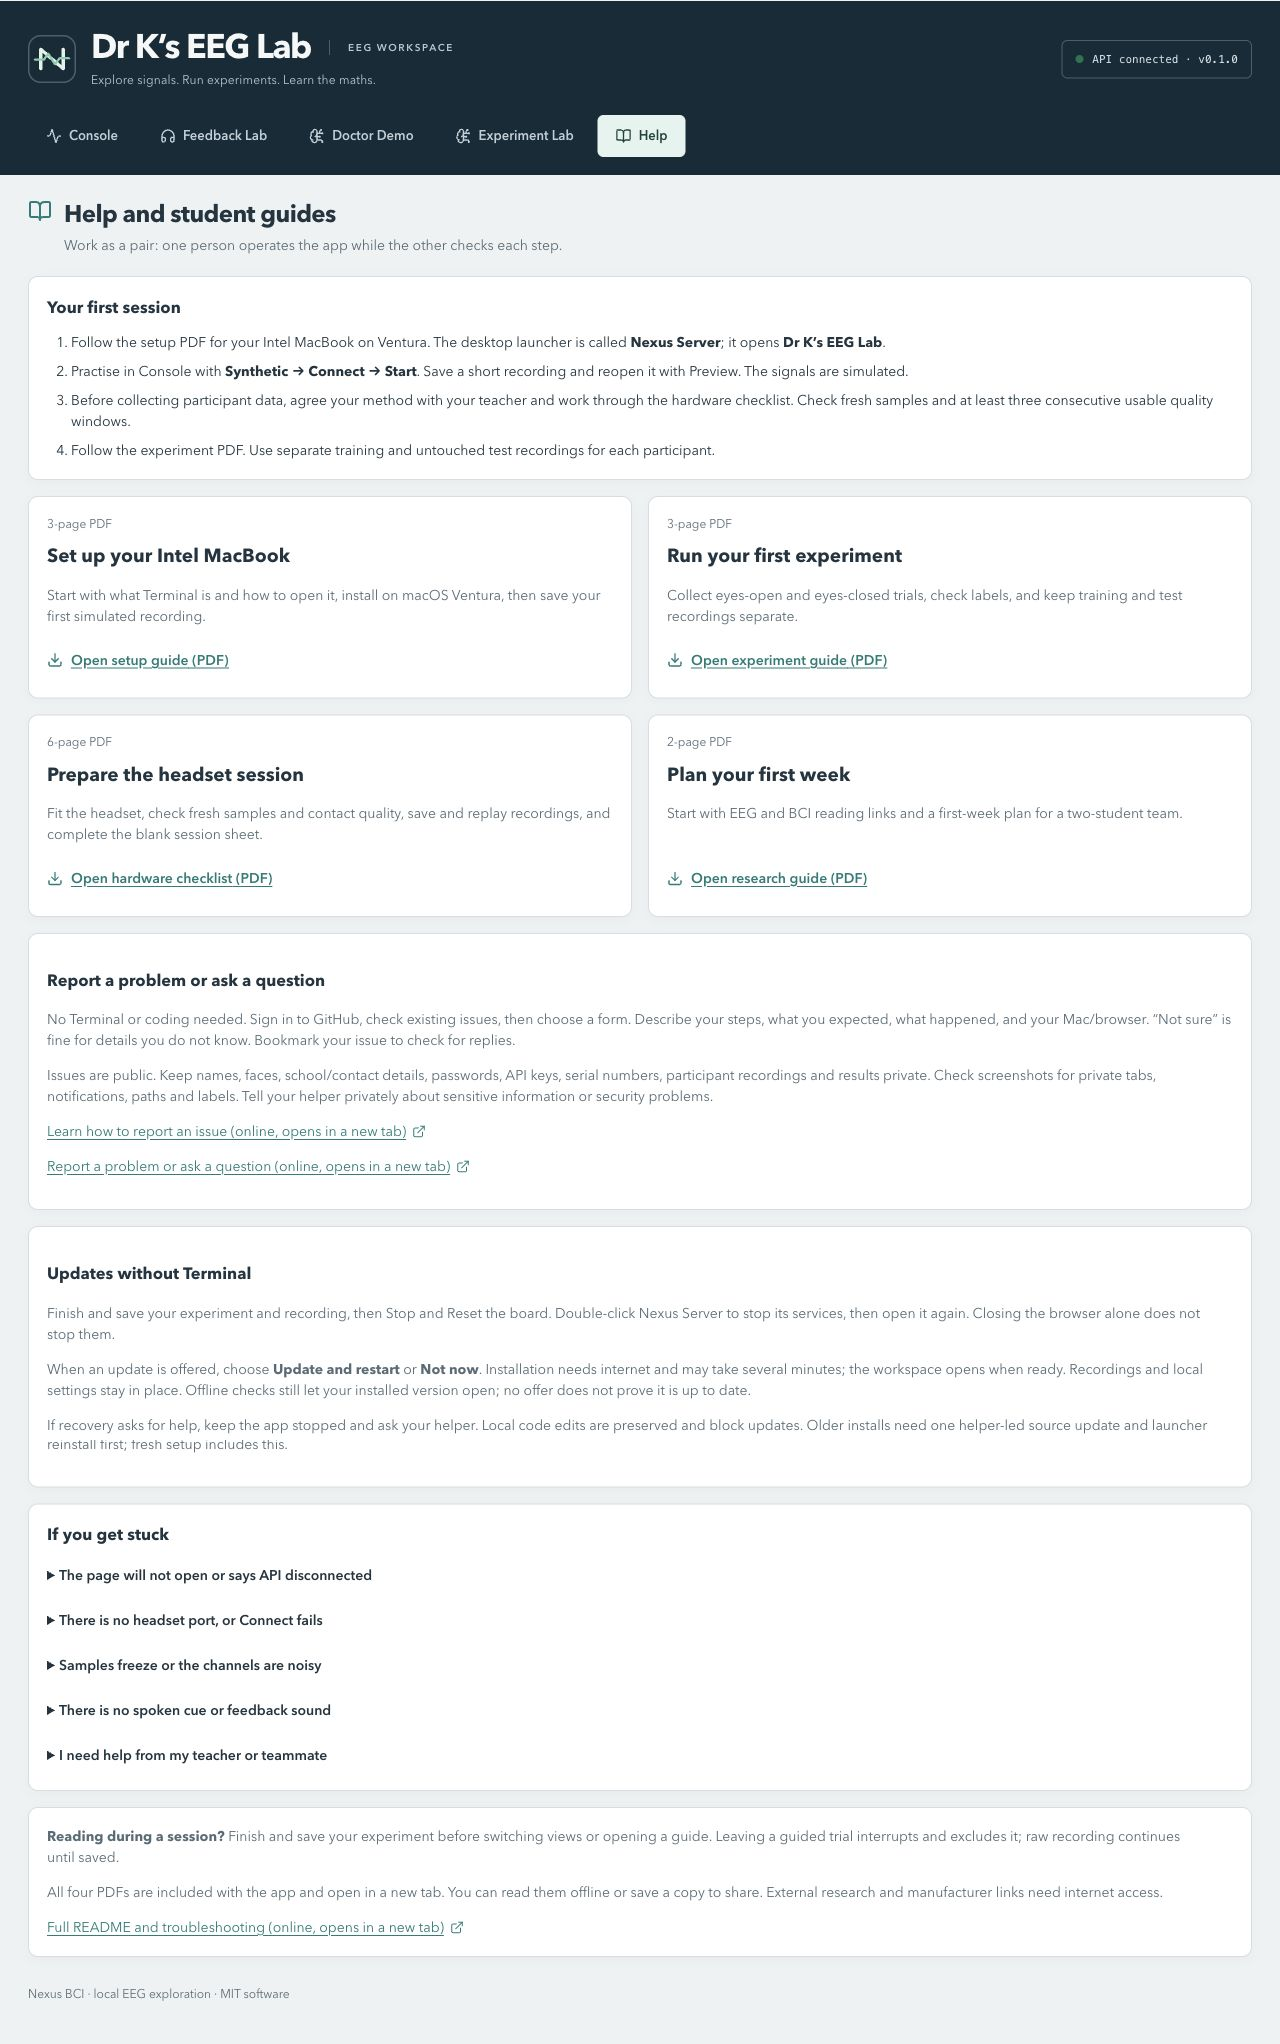
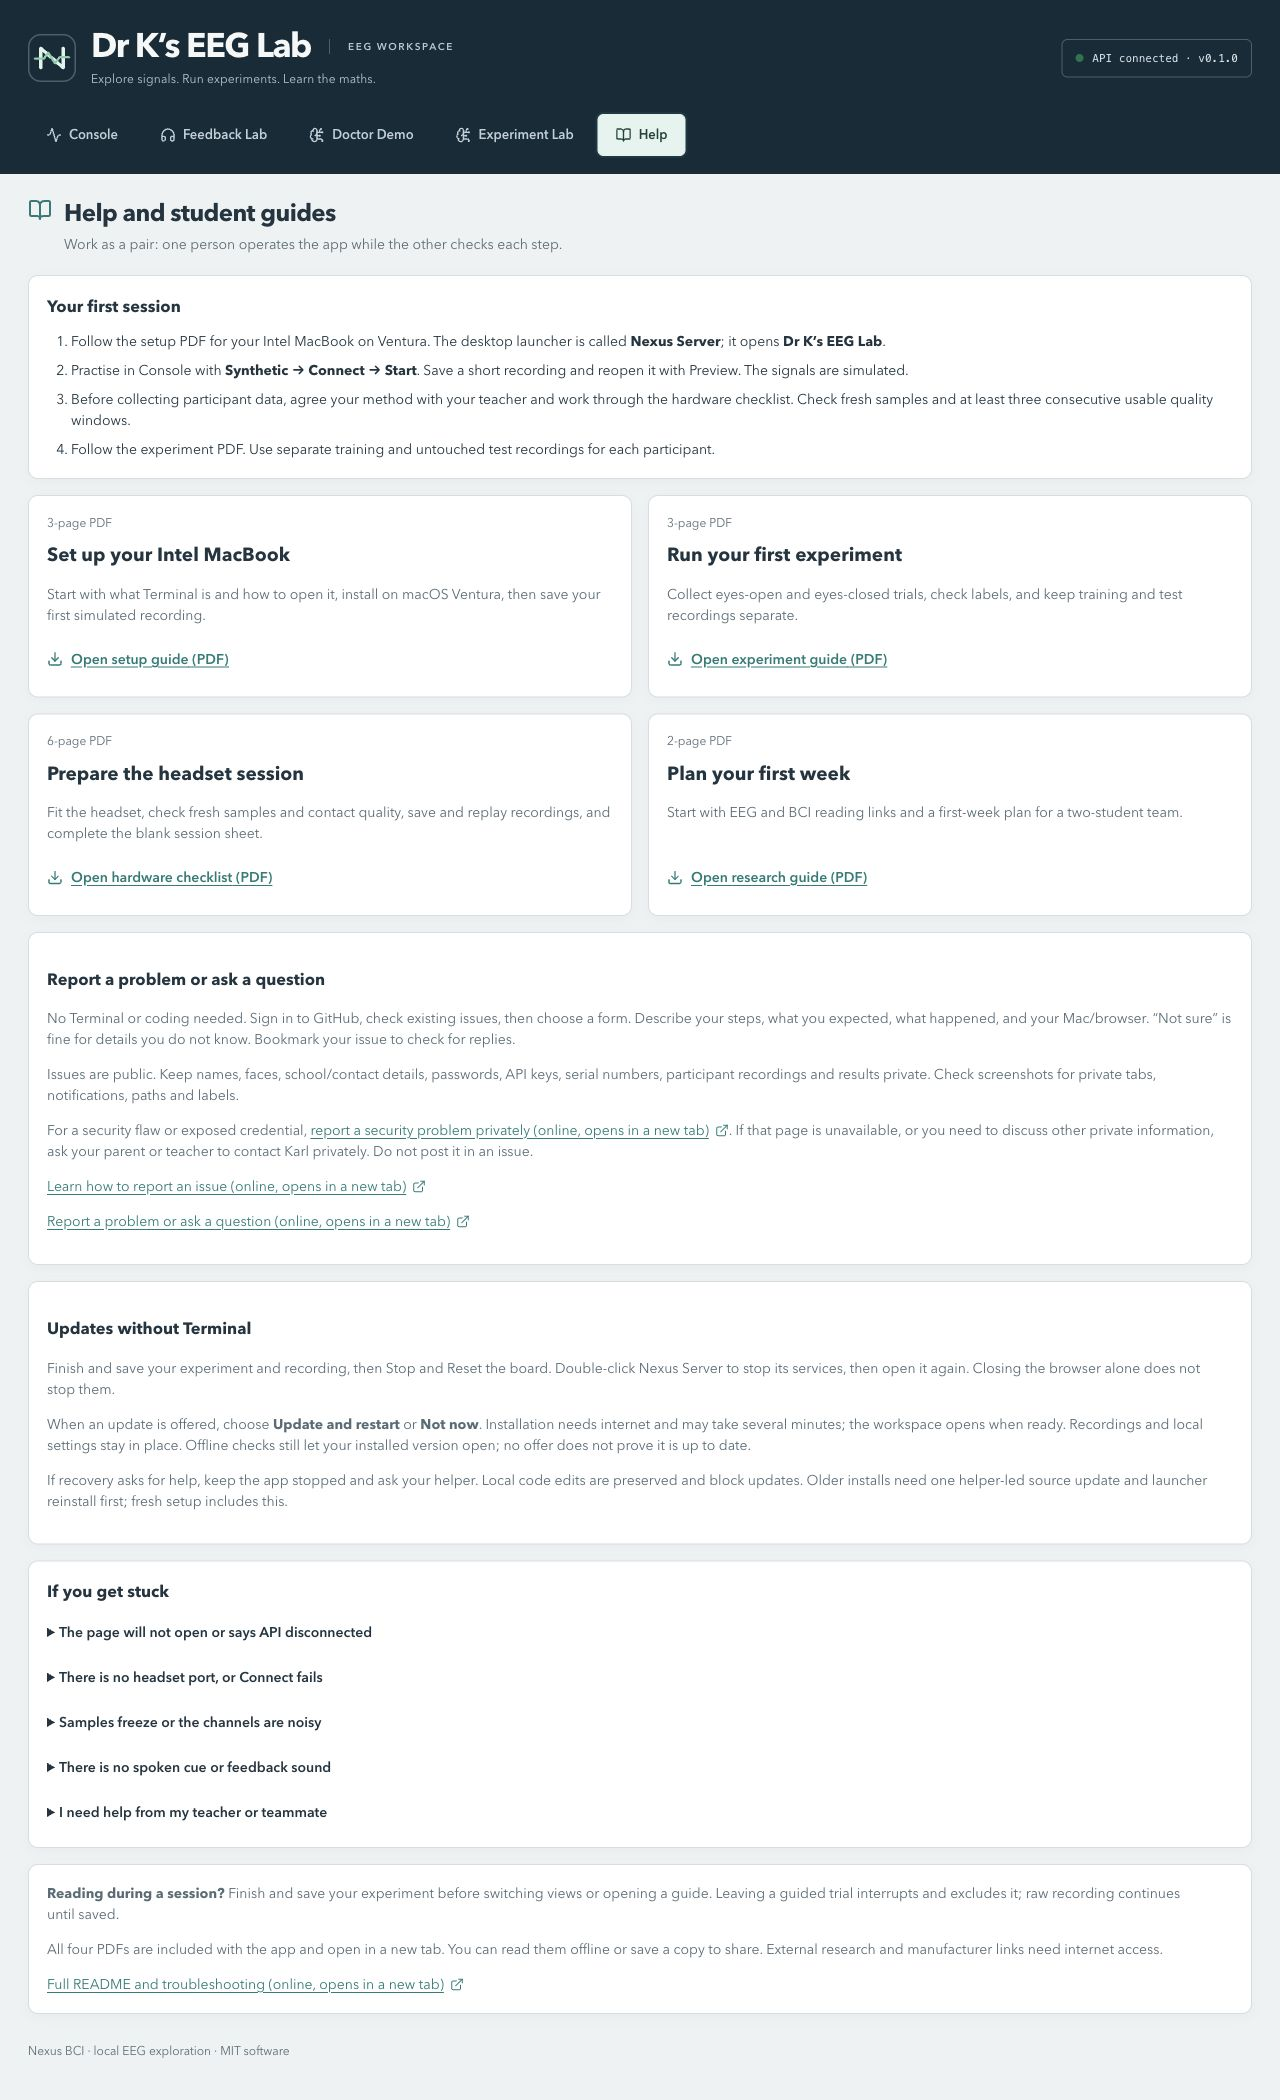
Link private security reporting from student help and forms

diff --git a/frontend/src/StudentHelp.tsx b/frontend/src/StudentHelp.tsx
@@ -50,7 +50,8 @@ export function StudentHelp() {
     <div className="panel student-help__notes">
       <h3>Report a problem or ask a question</h3>
       <p>No Terminal or coding needed. Sign in to GitHub, check existing issues, then choose a form. Describe your steps, what you expected, what happened, and your Mac/browser. “Not sure” is fine for details you do not know. Bookmark your issue to check for replies.</p>
-      <p>Issues are public. Keep names, faces, school/contact details, passwords, API keys, serial numbers, participant recordings and results private. Check screenshots for private tabs, notifications, paths and labels. Tell your helper privately about sensitive information or security problems.</p>
+      <p>Issues are public. Keep names, faces, school/contact details, passwords, API keys, serial numbers, participant recordings and results private. Check screenshots for private tabs, notifications, paths and labels.</p>
+      <p>For a security flaw or exposed credential, <a href="https://github.com/zook111/Nexus_BCI/security/advisories/new" target="_blank" rel="noopener noreferrer">report a security problem privately (online, opens in a new tab) <ExternalLink size={14} aria-hidden="true" /></a>. If that page is unavailable, or you need to discuss other private information, ask your parent or teacher to contact Karl privately. Do not post it in an issue.</p>
       <p><a href="https://github.com/zook111/Nexus_BCI/blob/main/docs/report-a-problem.md" target="_blank" rel="noopener noreferrer">Learn how to report an issue (online, opens in a new tab) <ExternalLink size={14} aria-hidden="true" /></a></p>
       <p><a href="https://github.com/zook111/Nexus_BCI/issues/new/choose" target="_blank" rel="noopener noreferrer">Report a problem or ask a question (online, opens in a new tab) <ExternalLink size={14} aria-hidden="true" /></a></p>
     </div>

diff --git a/project_status.md b/project_status.md
@@ -8,6 +8,7 @@ Public repository: [zook111/Nexus_BCI](https://github.com/zook111/Nexus_BCI).
 - Added guided problem and question/suggestion forms, with unknown setup details accepted and an explicit public-data check. No labels, assignments, accounts or issues are created automatically. Participant EEG, results, personal information and secrets stay out of public reports; sensitive/security problems go to the helper privately.
 - README, student starting page and in-app Help link to the guide and issue chooser. Service diagnostics are optional helper-led follow-up, not a prerequisite for reporting. The Help screenshot is refreshed.
 - Verification: Node 24 frontend lint, all 110 tests and production build pass. YAML forms parse with unique field IDs and required privacy confirmations; local guide references resolve. The idle Help panel and its link destinations were checked in the browser on isolated loopback ports with no board connection. Backend runtime and PDFs are unchanged; required CI/review and the five-minute latest-revision hold apply before merge. The live GitHub form chooser can be checked after the templates reach main, without submitting a test issue.
+- Review correction: linked GitHub's private vulnerability-reporting route and the security policy from the guide/forms, and added the private route to Help and the issue chooser. GitHub API confirms private reporting is enabled; a parent/teacher contact fallback covers unavailable private reporting and other sensitive information. No private report was submitted.
 
 ## Offered student updates, 19 October 2026
 

diff --git a/docs/report-a-problem.md b/docs/report-a-problem.md
@@ -10,7 +10,9 @@ Finish and save your recording or experiment if the app still allows it. If samp
 
 **This repository and its issues are public. Anyone can read them.** Leave out names, faces, school or contact details, passwords, API keys, and your Mac's serial number. Keep participant recordings, EEG exports, completed session sheets, and participant results private, even if they use participant codes.
 
-Before sharing a screenshot, crop it to the relevant controls or error. Check browser tabs, notifications, file paths, and recording labels. Use simulated data for a screenshot if possible. Never upload `.env` files or whole log folders. If the problem involves private information or a possible security flaw, tell Karl privately instead of opening a public issue.
+Before sharing a screenshot, crop it to the relevant controls or error. Check browser tabs, notifications, file paths, and recording labels. Use simulated data for a screenshot if possible. Never upload `.env` files or whole log folders.
+
+For a possible security flaw or exposed credential, use GitHub's [private vulnerability report](https://github.com/zook111/Nexus_BCI/security/advisories/new), not a public issue. The [security policy](../SECURITY.md) explains this route. If that page is unavailable, or you need to discuss other private information, ask your parent or teacher to contact Karl privately. Do not post the information in an issue while waiting for help.
 
 ## 2. Sign in and look for an existing report
 
